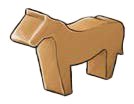
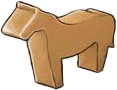
1

Changed region(s): [[0.0, 0.0, 1.0, 1.0]]

diff --git a/style.css b/style.css
@@ -566,11 +566,14 @@ footer {
 }
 
 .player-card .player-card-resizable .player-card-inner .card-deck[data-deck="M"] {
-  background-image: url(img/deckM/deckM.png);
-  background-size: contain;
+    background-image: url(img/deckM/deckM.png);
+    background-size: contain;
 }
 
 .agricola-meeple.meeple-horse {
-  background-image: url(img/horse.png);
-  background-size: contain;
+    background-image: url(img/horse.png);
+    background-position: 50% 50%;
+    background-size: contain;
+    height: 1.4em;
+    width: 1.6em;
 }
